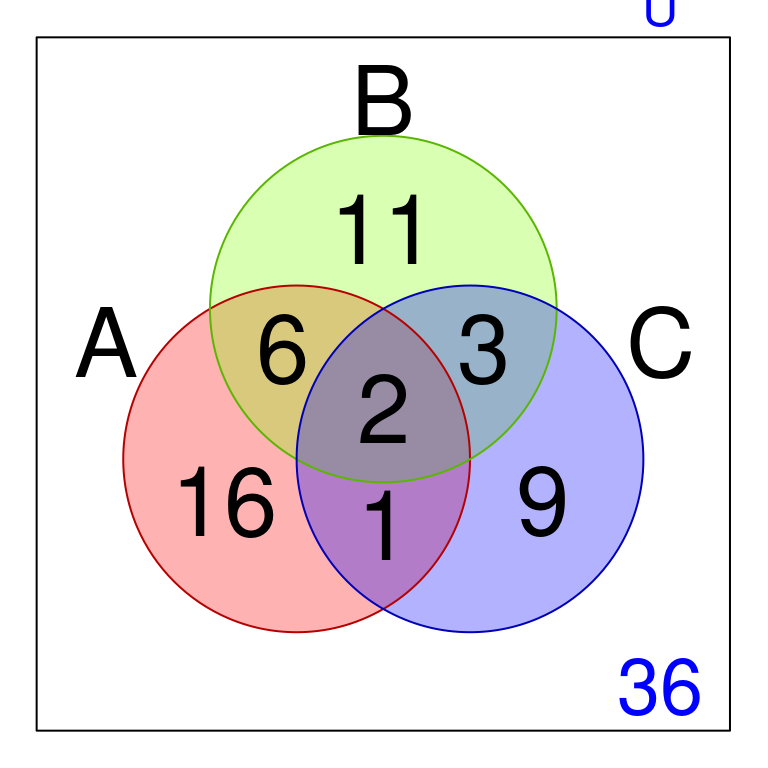
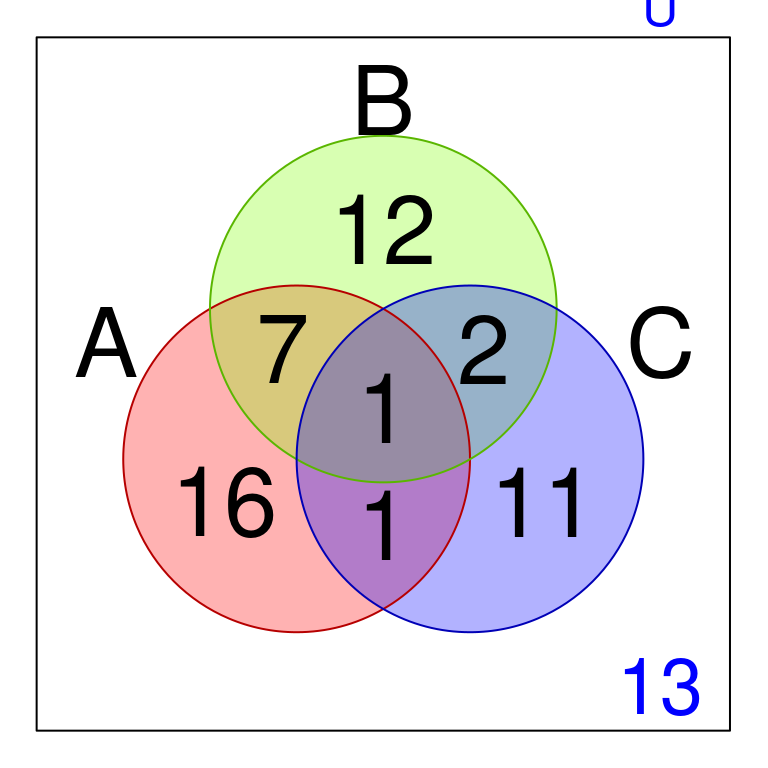
DomingoMod26Marzo2023V7
DomingoMod26Marzo2023V7

diff --git a/docs/intro.html b/docs/intro.html
@@ -149,6 +149,7 @@ div.csl-indent {
 <li class="chapter" data-level="2.12.1" data-path="intro.html"><a href="intro.html#primer-ejemplo-dos-conjuntos"><i class="fa fa-check"></i><b>2.12.1</b> Primer ejemplo dos conjuntos</a></li>
 <li class="chapter" data-level="2.12.2" data-path="intro.html"><a href="intro.html#segundo-ejemplo-tres-conjuntos"><i class="fa fa-check"></i><b>2.12.2</b> Segundo ejemplo tres conjuntos</a></li>
 <li class="chapter" data-level="2.12.3" data-path="intro.html"><a href="intro.html#tercer-ejemplo-cuatro-conjuntos"><i class="fa fa-check"></i><b>2.12.3</b> Tercer ejemplo cuatro conjuntos</a></li>
+<li class="chapter" data-level="2.12.4" data-path="intro.html"><a href="intro.html#cuarto-ejemplo-lectura-de-revistas"><i class="fa fa-check"></i><b>2.12.4</b> Cuarto ejemplo (lectura de revistas)</a></li>
 </ul></li>
 </ul></li>
 <li class="chapter" data-level="3" data-path="conjuntos-numéricos.html"><a href="conjuntos-numéricos.html"><i class="fa fa-check"></i><b>3</b> Conjuntos numéricos</a>
@@ -991,6 +992,22 @@ Figura 2.4: Ejemplo 3 de conjuntos [Imagen tomada de <span class="citation">(<a 
 <li><p>Obtener el cardinal de <span class="math inline">\(A - B=?\)</span></p></li>
 <li><p>Obtener el cardinal de <span class="math inline">\(C - A=?\)</span></p></li>
 <li><p>Obtener el cardinal para el complemento de <span class="math inline">\(D - A=?\)</span></p></li>
+</ul>
+</div>
+<div id="cuarto-ejemplo-lectura-de-revistas" class="section level3 hasAnchor" number="2.12.4">
+<h3><span class="header-section-number">2.12.4</span> Cuarto ejemplo (lectura de revistas)<a href="intro.html#cuarto-ejemplo-lectura-de-revistas" class="anchor-section" aria-label="Anchor link to header"></a></h3>
+<p>En un grupo universal (<span class="math inline">\(U\)</span>) para lectura se tienen tres subgrupos de lectura para las revistas <span class="math inline">\(A\)</span>, <span class="math inline">\(B\)</span>, y <span class="math inline">\(C\)</span>.</p>
+<p><img src="LibroMateUnoSemestre01-2020_files/figure-html/figConjunto8-1.png" width="384" style="display: block; margin: auto;" /></p>
+<p>A partir de la gáfica, obtener la solución a los enunciados de conjuntos:</p>
+<ul>
+<li><p>Obtener el cardinal de lectura para la revista <span class="math inline">\(A=?\)</span></p></li>
+<li><p>Obtener el cardinal de lectura para la revista <span class="math inline">\(B=?\)</span></p></li>
+<li><p>Obtener el cardinal de lectura para la revista <span class="math inline">\(C=?\)</span></p></li>
+<li><p>Qué significa el cardinal de <span class="math inline">\((A - B) \cup (B-A)\)</span> para el grupo de lectura?.</p></li>
+<li><p>Qué significa el cardinal de <span class="math inline">\((C - B) \cup (B-C)\)</span> para el grupo de lectura?.</p></li>
+<li><p>Qué significa el cardinal de <span class="math inline">\(B \cap A \cap C\)</span> para el grupo de lectura?.</p></li>
+<li><p>Qué significa el cardinal del complemento <span class="math inline">\(B - A\)</span> para el grupo de lectura?.</p></li>
+<li><p>Cúal es el cardinal de los que no leen las tres revistas?</p></li>
 </ul>
 </div>
 </div>

diff --git a/docs/desarrollo-temático.html b/docs/desarrollo-temático.html
@@ -130,6 +130,7 @@
 <li class="chapter" data-level="2.12.1" data-path="intro.html"><a href="intro.html#primer-ejemplo-dos-conjuntos"><i class="fa fa-check"></i><b>2.12.1</b> Primer ejemplo dos conjuntos</a></li>
 <li class="chapter" data-level="2.12.2" data-path="intro.html"><a href="intro.html#segundo-ejemplo-tres-conjuntos"><i class="fa fa-check"></i><b>2.12.2</b> Segundo ejemplo tres conjuntos</a></li>
 <li class="chapter" data-level="2.12.3" data-path="intro.html"><a href="intro.html#tercer-ejemplo-cuatro-conjuntos"><i class="fa fa-check"></i><b>2.12.3</b> Tercer ejemplo cuatro conjuntos</a></li>
+<li class="chapter" data-level="2.12.4" data-path="intro.html"><a href="intro.html#cuarto-ejemplo-lectura-de-revistas"><i class="fa fa-check"></i><b>2.12.4</b> Cuarto ejemplo (lectura de revistas)</a></li>
 </ul></li>
 <li class="chapter" data-level="2.13" data-path="intro.html"><a href="intro.html#propiedades-de-los-números-reales"><i class="fa fa-check"></i><b>2.13</b> Propiedades de los números reales</a></li>
 <li class="chapter" data-level="2.14" data-path="intro.html"><a href="intro.html#ejemplos-de-fracciones-en-los-números-reales"><i class="fa fa-check"></i><b>2.14</b> Ejemplos de fracciones en los números reales</a></li>

diff --git a/docs/index.html b/docs/index.html
@@ -130,6 +130,7 @@
 <li class="chapter" data-level="2.12.1" data-path="intro.html"><a href="intro.html#primer-ejemplo-dos-conjuntos"><i class="fa fa-check"></i><b>2.12.1</b> Primer ejemplo dos conjuntos</a></li>
 <li class="chapter" data-level="2.12.2" data-path="intro.html"><a href="intro.html#segundo-ejemplo-tres-conjuntos"><i class="fa fa-check"></i><b>2.12.2</b> Segundo ejemplo tres conjuntos</a></li>
 <li class="chapter" data-level="2.12.3" data-path="intro.html"><a href="intro.html#tercer-ejemplo-cuatro-conjuntos"><i class="fa fa-check"></i><b>2.12.3</b> Tercer ejemplo cuatro conjuntos</a></li>
+<li class="chapter" data-level="2.12.4" data-path="intro.html"><a href="intro.html#cuarto-ejemplo-lectura-de-revistas"><i class="fa fa-check"></i><b>2.12.4</b> Cuarto ejemplo (lectura de revistas)</a></li>
 </ul></li>
 <li class="chapter" data-level="2.13" data-path="intro.html"><a href="intro.html#propiedades-de-los-números-reales"><i class="fa fa-check"></i><b>2.13</b> Propiedades de los números reales</a></li>
 <li class="chapter" data-level="2.14" data-path="intro.html"><a href="intro.html#ejemplos-de-fracciones-en-los-números-reales"><i class="fa fa-check"></i><b>2.14</b> Ejemplos de fracciones en los números reales</a></li>

diff --git a/docs/conjuntos-numéricos.html b/docs/conjuntos-numéricos.html
@@ -149,6 +149,7 @@ div.csl-indent {
 <li class="chapter" data-level="2.12.1" data-path="intro.html"><a href="intro.html#primer-ejemplo-dos-conjuntos"><i class="fa fa-check"></i><b>2.12.1</b> Primer ejemplo dos conjuntos</a></li>
 <li class="chapter" data-level="2.12.2" data-path="intro.html"><a href="intro.html#segundo-ejemplo-tres-conjuntos"><i class="fa fa-check"></i><b>2.12.2</b> Segundo ejemplo tres conjuntos</a></li>
 <li class="chapter" data-level="2.12.3" data-path="intro.html"><a href="intro.html#tercer-ejemplo-cuatro-conjuntos"><i class="fa fa-check"></i><b>2.12.3</b> Tercer ejemplo cuatro conjuntos</a></li>
+<li class="chapter" data-level="2.12.4" data-path="intro.html"><a href="intro.html#cuarto-ejemplo-lectura-de-revistas"><i class="fa fa-check"></i><b>2.12.4</b> Cuarto ejemplo (lectura de revistas)</a></li>
 </ul></li>
 </ul></li>
 <li class="chapter" data-level="3" data-path="conjuntos-numéricos.html"><a href="conjuntos-numéricos.html"><i class="fa fa-check"></i><b>3</b> Conjuntos numéricos</a>

diff --git a/docs/recta-real-y-desigualdades.html b/docs/recta-real-y-desigualdades.html
@@ -149,6 +149,7 @@ div.csl-indent {
 <li class="chapter" data-level="2.12.1" data-path="intro.html"><a href="intro.html#primer-ejemplo-dos-conjuntos"><i class="fa fa-check"></i><b>2.12.1</b> Primer ejemplo dos conjuntos</a></li>
 <li class="chapter" data-level="2.12.2" data-path="intro.html"><a href="intro.html#segundo-ejemplo-tres-conjuntos"><i class="fa fa-check"></i><b>2.12.2</b> Segundo ejemplo tres conjuntos</a></li>
 <li class="chapter" data-level="2.12.3" data-path="intro.html"><a href="intro.html#tercer-ejemplo-cuatro-conjuntos"><i class="fa fa-check"></i><b>2.12.3</b> Tercer ejemplo cuatro conjuntos</a></li>
+<li class="chapter" data-level="2.12.4" data-path="intro.html"><a href="intro.html#cuarto-ejemplo-lectura-de-revistas"><i class="fa fa-check"></i><b>2.12.4</b> Cuarto ejemplo (lectura de revistas)</a></li>
 </ul></li>
 </ul></li>
 <li class="chapter" data-level="3" data-path="conjuntos-numéricos.html"><a href="conjuntos-numéricos.html"><i class="fa fa-check"></i><b>3</b> Conjuntos numéricos</a>
